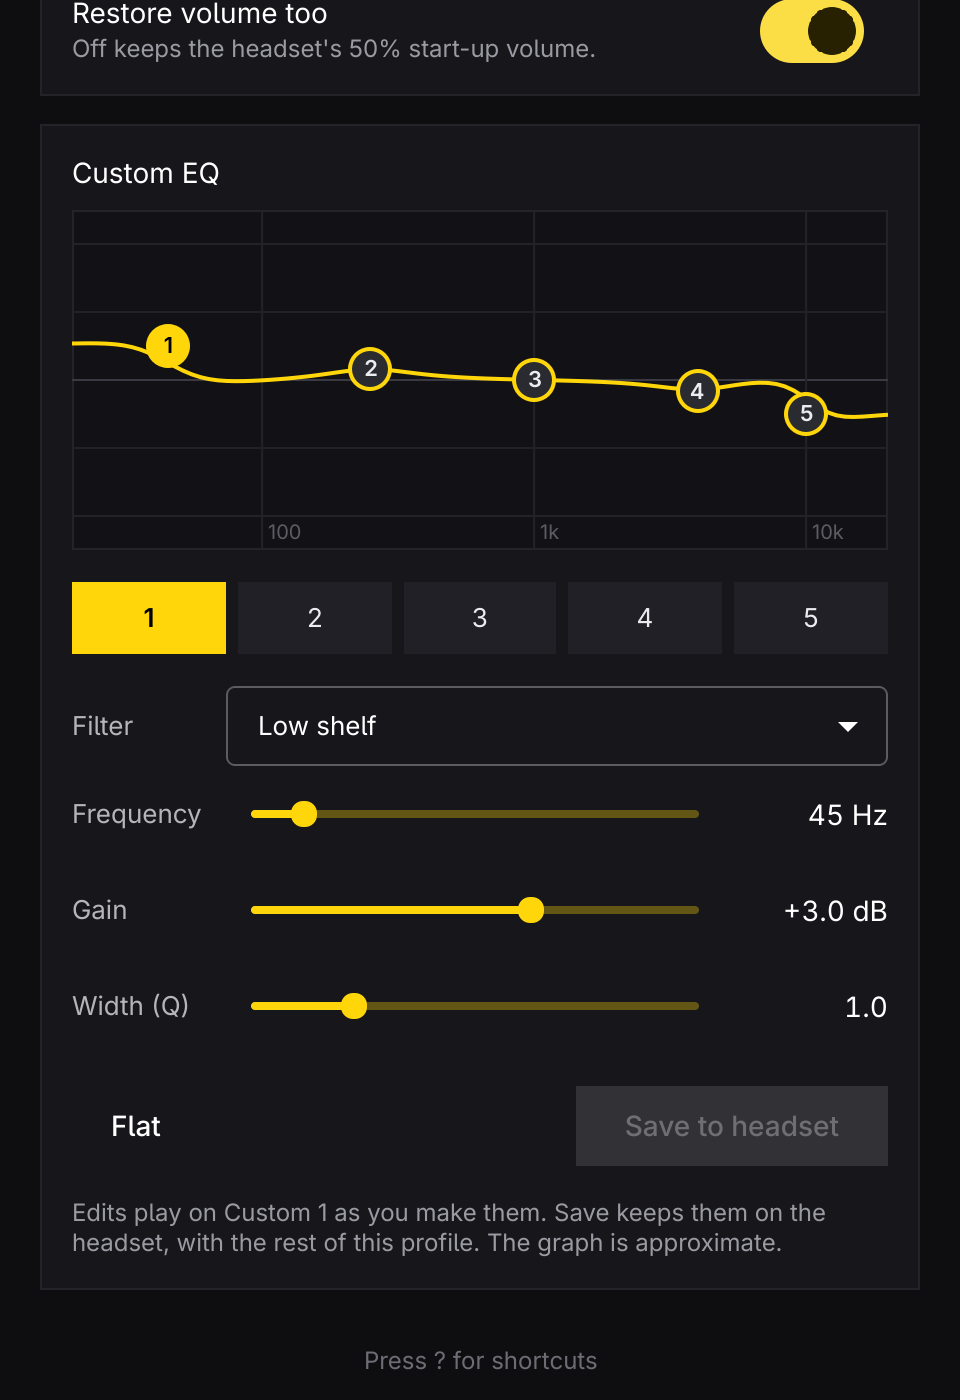
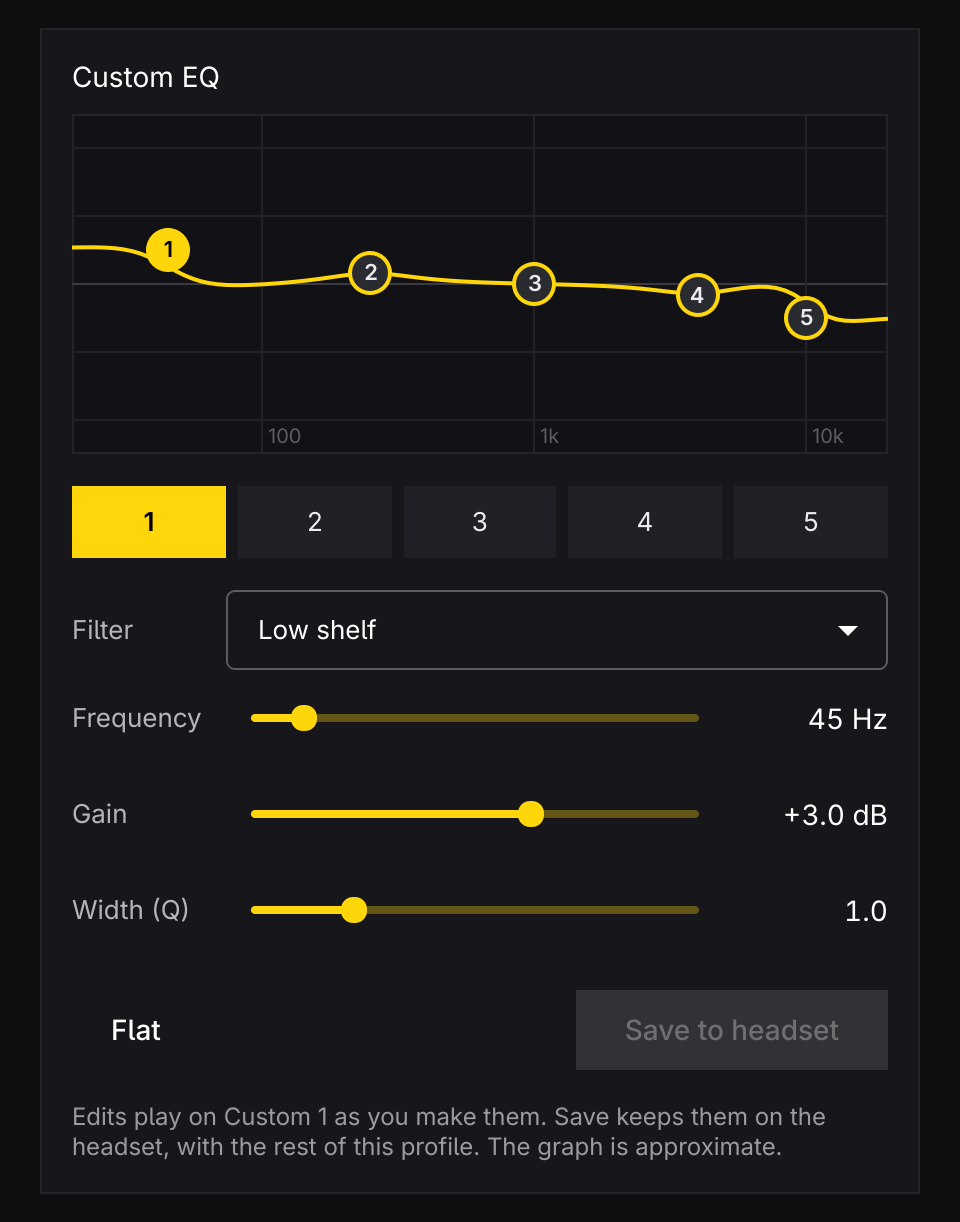
Cut the README screenshots between panels, and show the bar widget
Claude-Session: https://claude.ai/code/session_013LhgsAPTUtdRcqTHiivyF4

diff --git a/README.md b/README.md
@@ -2,7 +2,7 @@
 
 Settings for the Glorious **GHS Wireless InfinitePlay** headset on Linux.
 
-<img src="docs/halo-window.png" width="400" alt="halo showing headset and spare battery, the profile picker, and sound settings"> <img src="docs/halo-window-settings.png" width="400" alt="halo scrolled down to its microphone, sidetone, Bluetooth, and keep-my-settings controls">
+<img src="docs/halo-window.png" width="400" alt="halo showing headset and spare battery, the profile picker, and sound settings"> <img src="docs/halo-window-settings.png" width="400" alt="halo's microphone, sidetone, Bluetooth, and keep-my-settings controls">
 
 The headset works on Linux as a standard USB headset, but its settings live
 in Glorious CORE, which only runs on Windows. halo reads and changes them
@@ -56,6 +56,8 @@ systemctl --user enable --now halo-watch
 ```
 
 ### Battery on the Omarchy bar
+
+<img src="docs/halo-bar-widget.png" width="233" alt="The Omarchy bar's status icons, with the headset's battery at 50% beside a headset icon">
 
 halo comes with a bar widget that shows the headset's battery, with both
 packs in its tooltip; clicking it opens halo. It hides while the headset is
